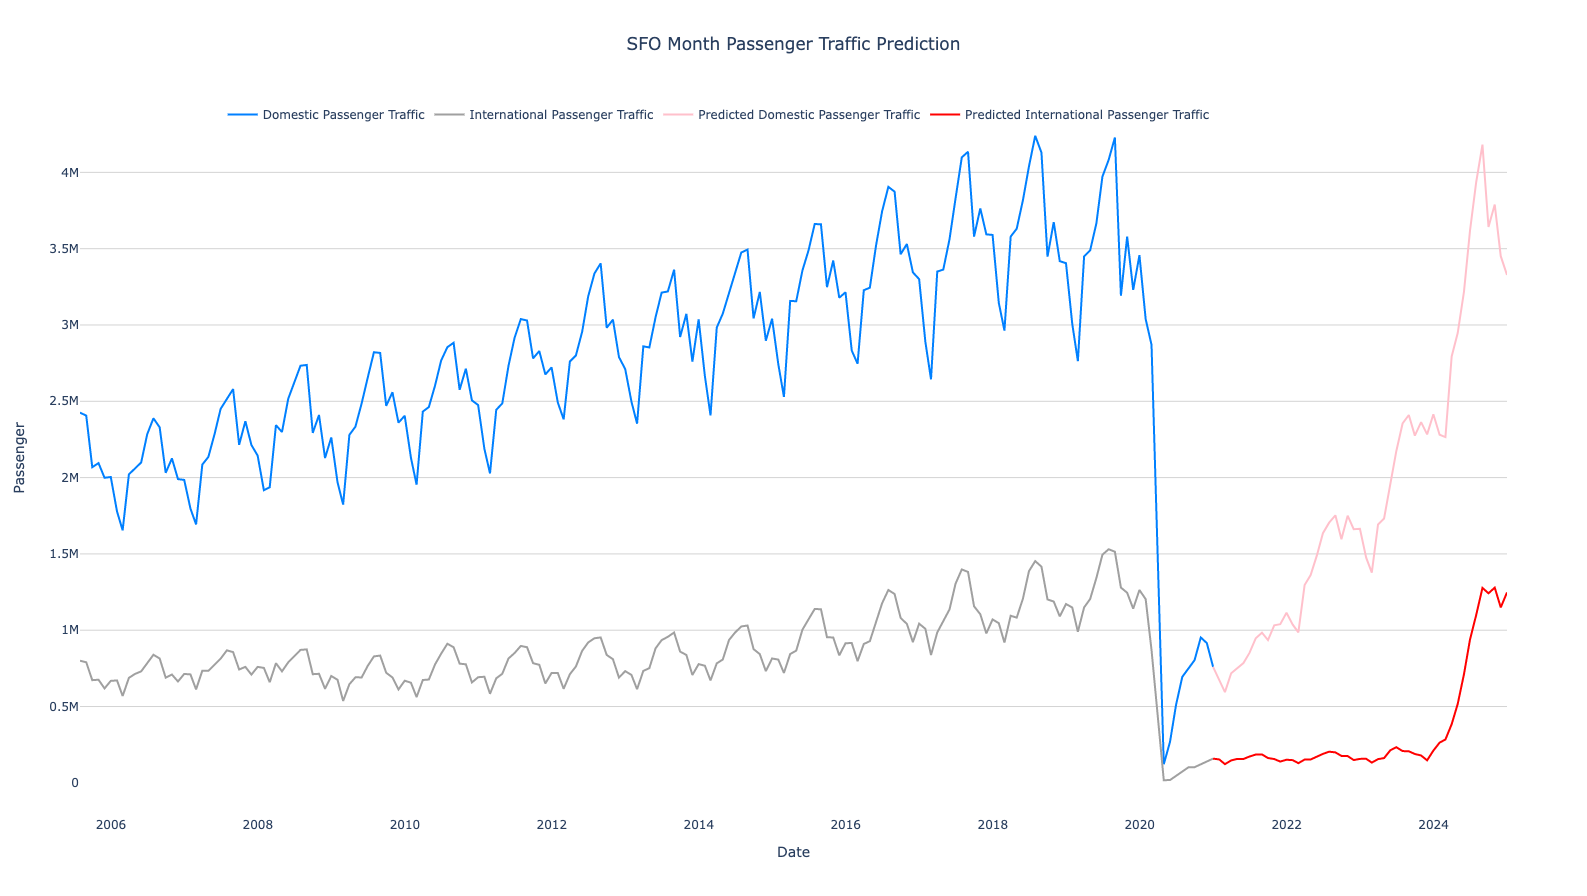
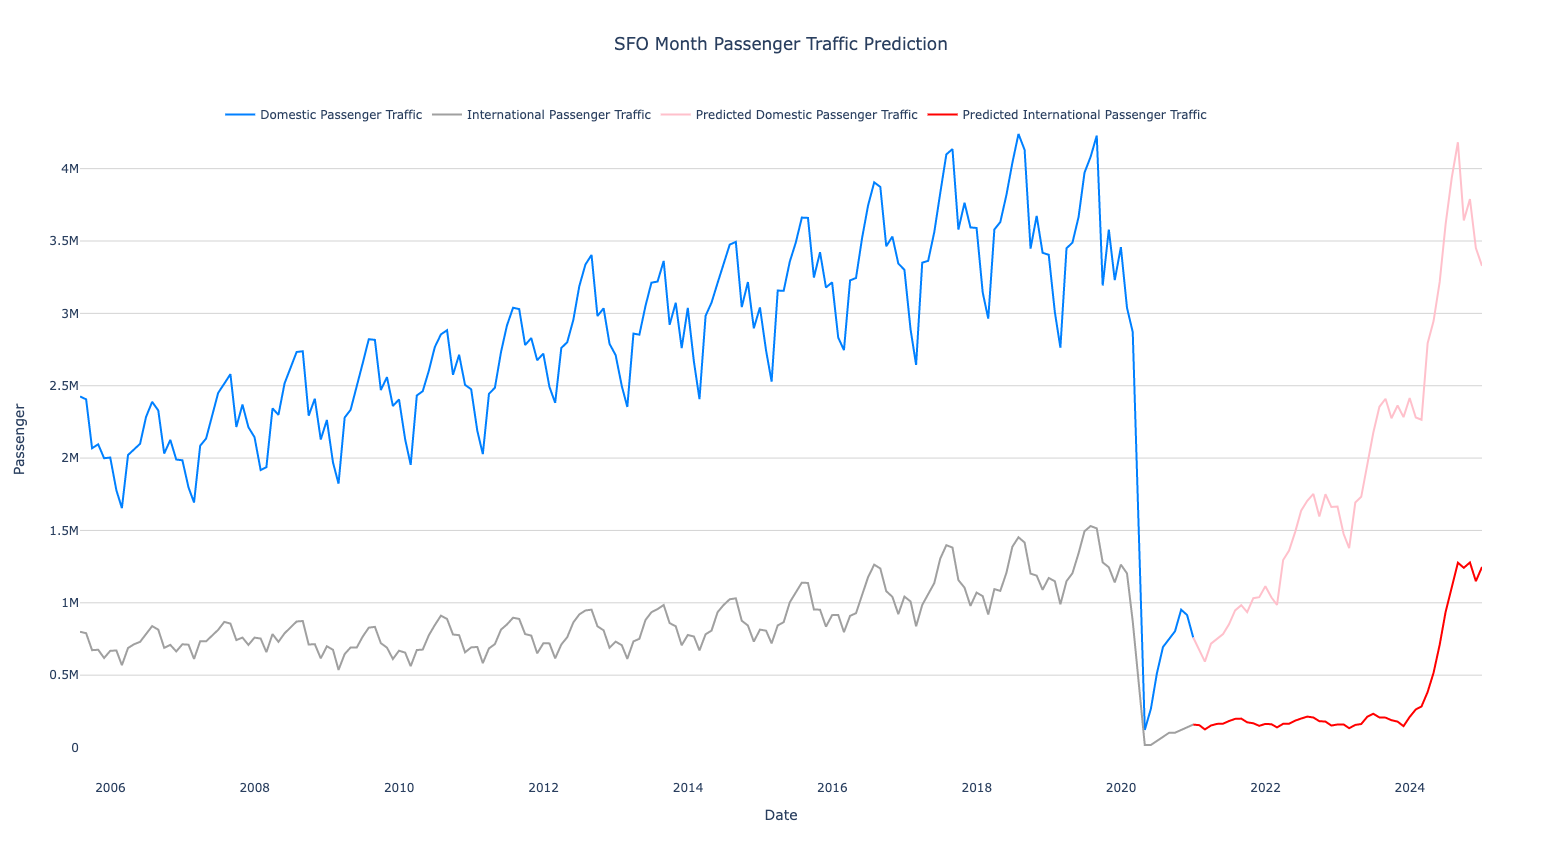
Fix Part 5 formula
Create a floor when predicting international trend in order to have consistent formula

diff --git a/Part2/prediction_step5.py b/Part2/prediction_step5.py
@@ -77,7 +77,7 @@ df_pred['domestic_raw_prediction'] = domestic_pax_dec2020+(df_pred['domestic_mai
 df_pred['intl_raw_prediction'] = intl_pax_dec2020
 for i in range(1,len(df_pred)):
 	if df_pred['intl_maindex'].iloc[i] < 100:
-		df_pred['intl_raw_prediction'].iloc[i] = intl_pax_dec2020*df_pred['intl_maindex'].iloc[i]/100
+		df_pred['intl_raw_prediction'].iloc[i] = intl_pax_dec2020
 	else:
 		df_pred['intl_raw_prediction'].iloc[i] = intl_pax_dec2020+(df_pred['intl_maindex'].iloc[i]-100)*intl_pax_per_index
 # Calculate the final prediction by adjusting with seasonality
